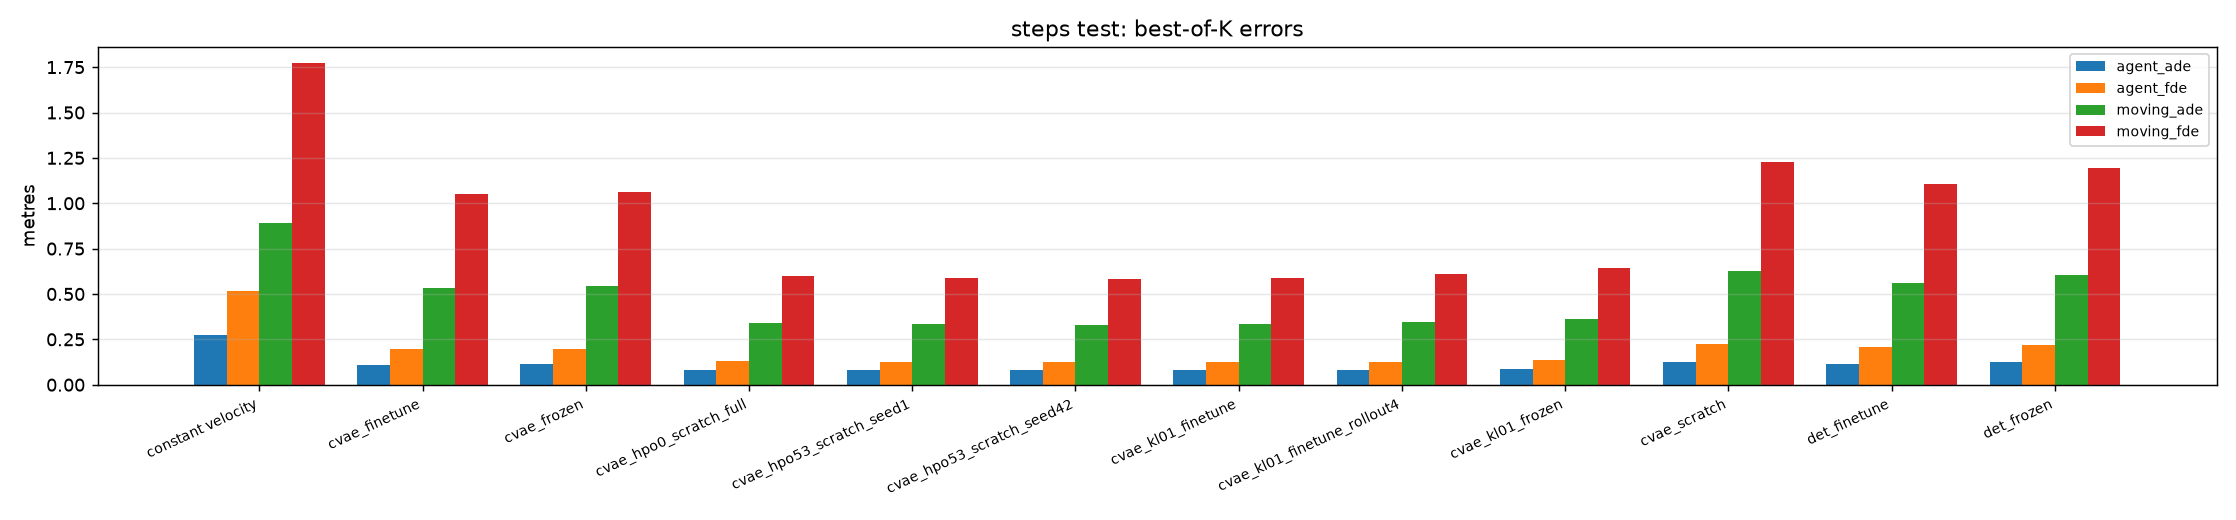
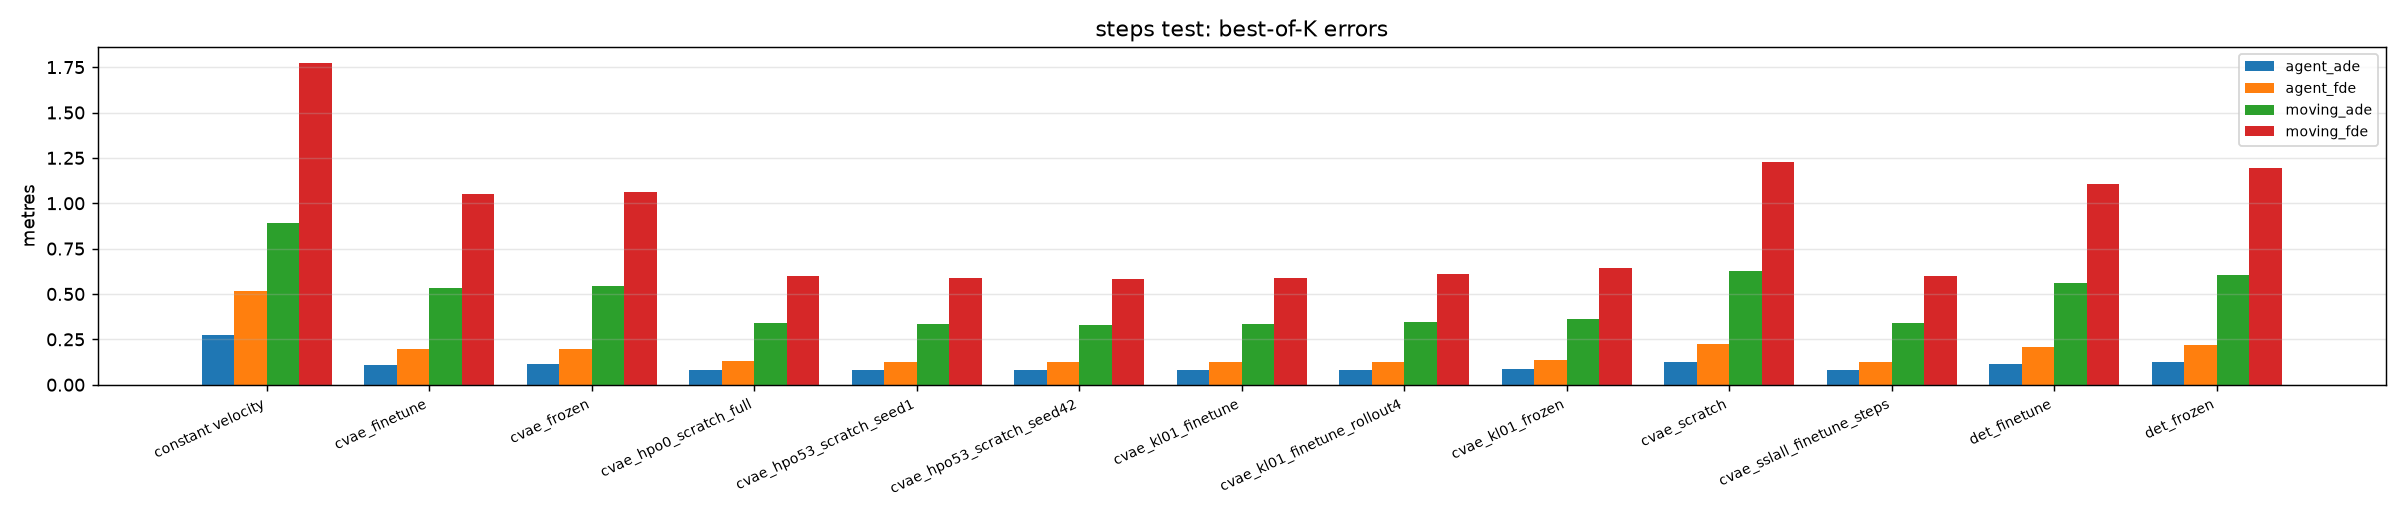
STARS crowd: AR(1) intents, goal clearance, robot-influence metric; crowd-tuned policy now best (decisions 55-56)

diff --git a/src/seanjax/pedestrians/stars_crowd.py b/src/seanjax/pedestrians/stars_crowd.py
@@ -6,9 +6,11 @@ its motion comes from the forecaster:
 
 * every ``replan_every`` simulation steps (0.4 s by default, the model's rate) all model-driven
   pedestrians of every environment are forecast jointly from their histories;
-* the CVAE intent is held per pedestrian: a standard-normal draw ``eps`` made at reset (seeded, so
-  the robot-absent counterfactual uses the same draws) gives ``z = mu + sigma * eps`` under the
-  current prior at every replanning step;
+* the CVAE intent is temporally correlated per pedestrian: standard-normal ``eps`` drawn at reset and
+  updated as an AR(1) process at every re-forecast (``intent_correlation``, default 0.8 per 0.4 s,
+  ~2 s correlation time) gives ``z = mu + sigma * eps`` under the current prior. Draws are seeded and
+  made on a fixed schedule, so the robot-absent counterfactual uses the same ones. (A fully held
+  draw, read in each pedestrian's re-centred local frame, made pedestrians spiral.)
 * between replanning steps pedestrians move along the forecast's first step (its displacement
   spread evenly over the simulation steps, applied incrementally so hand-overs are smooth);
 * the robot joins the graph as one more person, so pedestrians react to it as they react to each
@@ -34,7 +36,7 @@ class StarsCrowdModel(PedestrianModel):
     name = "stars_crowd"
 
     def __init__(self, checkpoint, *, device: str = "cpu", replan_every: int = 4, include_robot: bool = True,
-                 seed: int = 0, amp: bool = True) -> None:
+                 seed: int = 0, amp: bool = True, intent_correlation: float = 0.8) -> None:
         self.device = torch.device(device)
         self.model, payload = load_forecaster(checkpoint, self.device)
         self.model.eval()
@@ -42,6 +44,7 @@ class StarsCrowdModel(PedestrianModel):
         self.history = int(payload["window"]["observation_steps"])
         self.dt_model = float(payload["window"]["dt"])
         self.replan_every, self.include_robot, self.seed, self.amp = int(replan_every), include_robot, seed, amp
+        self.intent_correlation = float(intent_correlation)
 
     def reset(self, batch):
         state = super().reset(batch)
@@ -52,12 +55,13 @@ class StarsCrowdModel(PedestrianModel):
         self.stride = stride
         self.buffer = [(state.pos.clone(), state.active.clone())]
         self.robot_buffer = []
-        generator = torch.Generator(device="cpu").manual_seed(self.seed)
+        self.generator = torch.Generator(device="cpu").manual_seed(self.seed)
         latent = max(1, self.model.latent_dim)
-        self.eps = torch.randn((B, P + 1, latent), generator=generator).to(batch.ped_ref.device)
+        self.eps = torch.randn((B, P + 1, latent), generator=self.generator).to(batch.ped_ref.device)
         self.plan = None                                     # [B, P, steps, 2] positions for the coming steps
         self.plan_start = 0
         self.age = torch.zeros(B, P, dtype=torch.long, device=batch.ped_ref.device)  # steps since spawn
+        self.last_influence = None
         return state
 
     def _history(self, extra_pos=None, extra_active=None):
@@ -73,10 +77,21 @@ class StarsCrowdModel(PedestrianModel):
         return xy, valid
 
     def _forecast(self, batch, robot, robot_present) -> torch.Tensor:
+        """Next-step positions, and (``self.last_influence``) how much the robot changed each forecast."""
+        nxt, full_with = self._forecast_once(batch, robot, robot_present, self.include_robot)
+        self.last_influence = torch.zeros_like(batch.ped_mask, dtype=nxt.dtype)
+        if self.include_robot and bool(robot_present.any()):
+            _, full_without = self._forecast_once(batch, robot, robot_present, False)
+            change = torch.linalg.norm(full_with - full_without, dim=-1).mean(-1)   # [B, P] over 4.8 s
+            self.last_influence = torch.where(robot_present[:, None], change, torch.zeros_like(change)).clamp(min=1e-9) \
+                * self._model_driven
+        return nxt
+
+    def _forecast_once(self, batch, robot, robot_present, include_robot: bool):
         """Next-step positions ``[B, P, 2]`` (scene frame) after one model step for model-driven pedestrians."""
         B, P = batch.ped_mask.shape
         extra_pos = extra_valid = None
-        if self.include_robot:
+        if include_robot:
             frames = [self.robot_buffer[max(0, len(self.robot_buffer) - 1 - self.stride * (self.history - 1 - i))]
                       for i in range(self.history)] if self.robot_buffer else [robot.pos] * self.history
             extra_pos = torch.stack(frames, dim=1)
@@ -88,8 +103,9 @@ class StarsCrowdModel(PedestrianModel):
         gather = lambda value: torch.gather(value, 1, order.view(B, N, *([1] * (value.dim() - 2))).expand_as(value))
         packed_mask = torch.gather(node_mask, 1, order)
         out = xy[:, :, -1].clone()
+        full = out[:, :, None].expand(B, N, self.model.prediction_steps, 2).clone()
         if not bool(packed_mask.any()):
-            return out[:, :P]
+            return out[:, :P], full[:, :P]
         graph = graph_batch_from_padded(gather(xy.to(self.device)), gather(valid.to(self.device)), packed_mask.to(self.device),
                                         dt=self.dt_model, knn=self.knn, radius=self.radius,
                                         prediction_steps=self.model.prediction_steps)
@@ -104,13 +120,15 @@ class StarsCrowdModel(PedestrianModel):
                 eps = eps[graph.node_mask]
                 z = (mu + torch.exp(0.5 * logvar) * eps.to(mu.dtype))[None]
             local = self.model.decode(graph, encoded, z)[0].float()
-        first = to_scene(local[:, :1], graph.origin, graph.heading)[:, 0]          # [Nt, 2]
-        packed = graph.to_padded(first)                                             # [B, N, 2]
-        nxt = torch.zeros_like(packed)
-        nxt.scatter_(1, order.to(self.device)[..., None].expand_as(packed), packed)
+        scene = to_scene(local, graph.origin, graph.heading)                       # [Nt, 12, 2]
+        packed = graph.to_padded(scene)                                             # [B, N, 12, 2]
+        unpacked = torch.zeros_like(packed)
+        unpacked.scatter_(1, order.to(self.device)[..., None, None].expand_as(packed), packed)
         have = node_mask.to(self.device)
-        out = torch.where(have[..., None], nxt, out.to(self.device))
-        return out[:, :P].to(batch.ped_ref.device)
+        full = torch.where(have[..., None, None], unpacked, full.to(self.device))
+        out = torch.where(have[..., None], unpacked[:, :, 0], out.to(self.device))
+        device = batch.ped_ref.device
+        return out[:, :P].to(device), full[:, :P].to(device)
 
     def step(self, state, batch, k, robot, robot_radius, robot_present) -> PedestrianState:
         K = batch.steps
@@ -120,7 +138,15 @@ class StarsCrowdModel(PedestrianModel):
         active = (state.active & ~leave) | spawn
         self.age = torch.where(spawn, torch.zeros_like(self.age), self.age + state.active.long())
         warm = self.age < self.history * self.stride                               # still on its reference
+        self._model_driven = (state.active & ~warm).to(state.pos.dtype)
+        self.last_influence = None
         if (k - 1) % self.replan_every == 0 or self.plan is None:
+            if self.plan is not None and self.intent_correlation < 1.0:
+                # Intents drift (AR(1), correlation time ~ replan / (1 - rho)): a fixed draw is read
+                # in each pedestrian's re-centred local frame every re-forecast and makes them spiral.
+                rho = self.intent_correlation
+                fresh = torch.randn(self.eps.shape, generator=self.generator).to(self.eps.device)
+                self.eps = rho * self.eps + (1.0 - rho * rho) ** 0.5 * fresh
             target = self._forecast(batch, robot, robot_present)
             # Per-step displacement toward the forecast's next model-rate position: applied to the
             # current position each step, so a pedestrian handed over mid-plan does not jump.

diff --git a/src/seanjax/core/rollout.py b/src/seanjax/core/rollout.py
@@ -25,6 +25,7 @@ class Rollout:
     end_step: torch.Tensor        # [B]
     robot_present: bool
     dt: float
+    ped_influence: torch.Tensor | None = None  # [B, P, K] robot-attributable forecast change (learned crowds)
 
     @property
     def steps(self) -> int:
@@ -43,6 +44,8 @@ def rollout(env, batch: ScenarioBatch, policy=None, params: torch.Tensor | None 
         policy.reset(batch.size)
     poses, vs, ws, commands, emergencies = [state.robot.pose], [state.robot.v], [state.robot.w], [state.command], []
     peds, active = [state.peds.pos], [state.peds.active]
+    influence = [torch.zeros_like(state.peds.active, dtype=state.peds.pos.dtype)]
+    tracks_influence = hasattr(env.pedestrians, "last_influence")
     emergencies.append(torch.zeros(batch.size, dtype=torch.bool, device=state.robot.pose.device))
     with torch.no_grad():
         for _ in range(batch.steps - 1):
@@ -55,6 +58,10 @@ def rollout(env, batch: ScenarioBatch, policy=None, params: torch.Tensor | None 
             poses.append(state.robot.pose), vs.append(state.robot.v), ws.append(state.robot.w)
             commands.append(state.command), peds.append(state.peds.pos), active.append(state.peds.active)
             emergencies.append(emergency if emergency is not None else torch.zeros_like(emergencies[0]))
+            if tracks_influence:
+                value = env.pedestrians.last_influence
+                influence.append(value.clone() if value is not None else torch.zeros_like(influence[0]))
     return Rollout(torch.stack(poses, 1), torch.stack(vs, 1), torch.stack(ws, 1), torch.stack(commands, 1),
                    torch.stack(emergencies, 1), torch.stack(peds, 2), torch.stack(active, 2), state.success,
-                   state.ped_collision, state.obstacle_collision, state.end_step, robot_present, batch.dt)
+                   state.ped_collision, state.obstacle_collision, state.end_step, robot_present, batch.dt,
+                   torch.stack(influence, 2) if tracks_influence else None)

diff --git a/src/seanjax/core/metrics.py b/src/seanjax/core/metrics.py
@@ -116,8 +116,24 @@ def disruption_metrics(run: Rollout, counterfactual: Rollout, batch: ScenarioBat
     }
 
 
+def influence_metrics(run: Rollout, batch: ScenarioBatch, threshold: float = 0.05) -> dict[str, torch.Tensor]:
+    """Robot-attributable change of learned-crowd forecasts (``stars_crowd``): per re-forecast, the
+    mean distance between the 4.8 s forecasts with and without the robot in the graph. Immune to
+    the closed-loop divergence that makes trajectory counterfactuals meaningless for learned crowds."""
+    value = run.ped_influence                                                    # [B, P, K], 0 between re-forecasts
+    record = value > 0
+    seen = run.ped_active.any(-1) & batch.ped_mask
+    per_ped = value.sum(-1) / record.float().sum(-1).clamp(min=1)                # mean over re-forecasts
+    n = seen.float().sum(-1).clamp(min=1)
+    return {"robot_influence": (per_ped * seen).sum(-1) / n,
+            "robot_influence_max": (value.amax(-1) * seen).amax(-1),
+            "peds_influenced": ((value.amax(-1) > threshold) & seen).float().sum(-1)}
+
+
 def all_metrics(run: Rollout, counterfactual: Rollout | None, batch: ScenarioBatch, robot_radius: float) -> dict:
     out = robot_metrics(run, batch, robot_radius)
+    if run.ped_influence is not None:
+        out.update(influence_metrics(run, batch))
     if counterfactual is not None:
         out.update(disruption_metrics(run, counterfactual, batch))
     return out

diff --git a/src/seanjax/pedestrians/social_force.py b/src/seanjax/pedestrians/social_force.py
@@ -69,7 +69,9 @@ def social_forces(state: PedestrianState, desired: torch.Tensor, batch, robot, r
     magnitude = p.ped_strength * torch.exp((reach - dist) / p.ped_range)
     magnitude = magnitude * _anisotropy(heading[:, :, None], away, p.anisotropy) * pair
     unit = heading / torch.linalg.norm(heading, dim=-1, keepdim=True).clamp(min=1e-9)
-    right = torch.stack([unit[..., 1], -unit[..., 0]], dim=-1)                   # walker's right-hand side
+    # Side-stepping is something walkers do; standing pedestrians would otherwise orbit in place.
+    walking = (torch.linalg.norm(desired, dim=-1, keepdim=True) / 0.5).clamp(max=1.0)
+    right = torch.stack([unit[..., 1], -unit[..., 0]], dim=-1) * walking         # walker's right-hand side
     force = force + (magnitude[..., None] * away).sum(dim=2) + p.sidestep * magnitude.sum(dim=2)[..., None] * right
 
     rel_r = pos - robot.pos[:, None]

diff --git a/src/seanjax/datasets/trajectory_loader.py b/src/seanjax/datasets/trajectory_loader.py
@@ -194,6 +194,10 @@ class RecordingPool:
             start, goal = center - reach * direction, center + reach * direction
             if (np.linalg.norm(ref[:, 0] - start, axis=-1)[valid[:, 0]] < 1.0).any():
                 continue
+            # The goal must be reachable: not next to someone (standing pedestrians in a learned
+            # crowd do not yield, and a goal inside a group cannot be reached safely).
+            if (np.linalg.norm(occupied - goal, axis=-1) < 1.0).any():
+                continue
             # Keep the pedestrians nearest to the robot's straight path.
             seg = goal - start
             cross = lambda d: np.abs(seg[0] * d[:, 1] - seg[1] * d[:, 0]) / np.linalg.norm(seg)

diff --git a/src/seanjax/optimization/evaluator.py b/src/seanjax/optimization/evaluator.py
@@ -58,7 +58,8 @@ def _repeat_rollout(run: Rollout, times: int) -> Rollout:
     rep = lambda t: t.repeat(times, *([1] * (t.dim() - 1)))
     return Rollout(rep(run.robot_pose), rep(run.robot_v), rep(run.robot_w), rep(run.command), rep(run.emergency),
                    rep(run.ped_pos), rep(run.ped_active), rep(run.success), rep(run.ped_collision),
-                   rep(run.obstacle_collision), rep(run.end_step), run.robot_present, run.dt)
+                   rep(run.obstacle_collision), rep(run.end_step), run.robot_present, run.dt,
+                   rep(run.ped_influence) if run.ped_influence is not None else None)
 
 
 class Evaluator:

diff --git a/docs/decisions.md b/docs/decisions.md
@@ -450,3 +450,122 @@ why, and how to undo it.
     the robot, averaged over pedestrians that came that close. `cmaes_crowd.yaml` now uses it as
     its disruption term and the run restarted. The global metric is still reported. For the
     social-force-type models (damped dynamics) the global metric remains the default.
+
+50. **Objective v2 warm start: natural behaviour, a real trade-off.** Scripted test, best STARS
+    predictor, fixed controller, objective v2:
+
+    | Policy | Objective v2 | Success | Path efficiency | Disruption | Min clearance | Time | Smoothness |
+    | --- | --- | --- | --- | --- | --- | --- | --- |
+    | Default | 0.425 | 100% | 0.98 | 0.206 m | — | 13.6 s | 0.62 |
+    | v1 | 0.354 | 91% | 0.85 | 0.067 m | 0.74 m | 13.5 s | — |
+    | Reward-hacking warm start | 0.173 | — | — | — | — | — | — |
+    | Warm start v2 | 0.449 | 96% | 0.91 | 0.115 m | 0.46 m | 12.4 s | 0.37 |
+
+    The rollout figure (`docs/results/navigation_compare_warm_v2.png`) shows clean narrow-passage
+    and head-on behaviour and no circling around crossing pedestrians. A small loop near a
+    crowded goal in dense flow remains.
+
+    v2 is more efficient and smoother than v1 but less cautious; which is preferable depends on
+    the objective weights, which remain a research choice. Recommended:
+    `checkpoints/seanjax/cmaes_stars_best_warm_v2/best_policy.yaml` for objective v2, v1 for
+    minimum disruption.
+
+    Side fix: the social-force sidestep now applies only to walking pedestrians. Standing-group
+    members orbited in place before; now they settle within ~5 s (0 m/s after 15 s). Results
+    above used the old pedestrian model; the difference is confined to standing pedestrians.
+
+51. **Measuring disruption in the STARS crowd, and a limitation it revealed.**
+    - The local metric (49) still read ~0.85 m: pedestrians that reach the robot have already
+      diverged chaotically.
+    - New `robot_influence`: at each re-forecast the crowd model also forecasts without the robot
+      in the graph, from the same histories. The metric is the mean distance between the two 4.8 s
+      forecasts. It is attributable to the robot and immune to divergence. Also
+      `robot_influence_max` and `peds_influenced` (> 5 cm).
+
+    Finding: the STEPS-trained forecaster barely reacts to the robot node. Mean influence is 7 mm
+    within 2 m of the robot and 1-2 mm beyond. STEPS contains no robot, and most of its
+    interactions are weak (90% of pedestrians stand). In this crowd, avoidance is therefore almost
+    entirely the robot's responsibility, plus the no-interpenetration rule. To make learned crowds
+    reactive, the forecaster would need interaction-rich data or robot-in-the-loop data; this is
+    a limitation to report, not a bug.
+
+    For tuning: `cmaes_crowd.yaml` uses `robot_influence` with weight 10 (it is ~100x smaller than
+    trajectory displacements) and now warm-starts from the objective-v2 policy. Restarted
+    (previous run cancelled at generation 54).
+
+52. **Correction to 51: the influence weight.** I set `disruption: 10` from three recorded scenes,
+    where influence was ~0.005 m. Over the full training mix (scripted encounters included)
+    `robot_influence` averages 0.24 m at the start, the same magnitude as trajectory disruption
+    with the other crowd models. Weight 10 made the influence term dominate the objective
+    (~-1.8), so the run was cancelled at generation 42 and restarted with weight 1.0.
+
+    The "barely reacts" finding in 51 holds for recorded STEPS scenes. In scripted head-on and
+    crossing encounters the forecaster does change its forecasts by tens of centimetres when the
+    robot is present.
+
+53. **Pretraining on all six datasets does not transfer better to STEPS.** A low-KL CVAE
+    fine-tuned on STEPS, STEPS test:
+    - from the all-datasets phase-1 encoder: agent ADE 0.081, moving 0.339, joint 0.096;
+    - from the STEPS-only encoder: 0.080 / 0.336 / 0.097.
+
+    Within seed noise. On STEPS, extra pedestrian datasets in self-supervised pretraining add
+    nothing measurable. A single forecaster trained on all six datasets matches the STEPS-only
+    models on STEPS validation (0.068-0.070) while also covering MADRAS, Grand Central, UCY and
+    PTDPES. Per-dataset test results are pending (job 65718).
+
+54. **Navigation in the STARS-driven crowd (test, scripted + recorded scenes; objective v2 with
+    robot_influence).**
+
+    | Policy | Objective | Success | Collisions | Path efficiency |
+    | --- | --- | --- | --- | --- |
+    | Goal-seeking | -2.326 | 34% | 66% | — |
+    | Default social | -0.239 | 82% | 7.8% | — |
+    | v1 | -0.150 | 83% | 3.3% | — |
+    | Objective-v2 policy | 0.044 | 91% | 3.3% | 0.86 |
+    | Crowd-tuned | 0.043 | 91% | 3.3% | 0.85 |
+
+    - Tuning inside the learned crowd gives nothing over the v2 policy, which transfers as is.
+    - On recorded STEPS scenes only, success is 30-50% for every social policy, against 100% with
+      reactive-replay pedestrians. Collisions are ~0, so the failures are timeouts. The learned
+      crowd barely yields to the robot (51), so in dense recorded crowds the robot rarely finds
+      a gap within 30 s: a freezing-robot outcome.
+
+    This is the main limitation of using the STEPS forecaster as a reactive crowd simulator.
+    Options, not yet done:
+    - longer time limits for recorded scenes;
+    - an interaction-aware forecaster trained on data with robots;
+    - a hybrid crowd (reactive replay near the robot, STARS elsewhere).
+
+    The global `disruption_displacement` column (1.1-1.3 m) is meaningless in this crowd (49).
+
+55. **Two fixes from the STARS-crowd figure (`docs/results/navigation_compare_crowd.png`).**
+    - **Spiralling pedestrians.** A fixed intent draw is read in each pedestrian's re-centred
+      local frame at every 0.4 s re-forecast, so a slight turn repeats into a circle. Intents now
+      follow an AR(1) process (`intent_correlation: 0.8` per re-forecast, ~2 s correlation),
+      still seeded and on a fixed schedule so the counterfactual matches. In `group_toward` with
+      the robot present, mean net turning per pedestrian fell from 1.41 to 0.67 rad (max 2.7 ->
+      1.1 rad).
+    - **Unreachable recorded goals.** Several recorded-scene goals sat next to standing
+      pedestrians, who do not yield in the learned crowd. Recorded scenarios now reject goals
+      within 1 m of any pedestrian position in the window. This changes which recorded scenes are
+      drawn, so recorded-scene numbers before this entry are not directly comparable.
+
+56. **After the fixes in 55, tuning inside the STARS crowd pays off.** Re-evaluated on 90 test
+    scenarios (80 scripted + 10 recorded STEPS scenes) with `stars_crowd` pedestrians
+    (`runs/seanjax/crowd_v2`), the crowd-tuned policy re-tuned on the corrected crowd is now best:
+
+    | Policy | Objective | Success | Collision | Path eff. | Recorded success / objective |
+    | --- | --- | --- | --- | --- | --- |
+    | Goal-seeking | -2.260 | 37% | 63% | 0.37 | 10% / -3.23 |
+    | Default social | -0.187 | 84% | 7.8% | 0.83 | 70% / -0.38 |
+    | v1 | 0.028 | 90% | 1.1% | 0.84 | 70% / -0.26 |
+    | Objective-v2 policy | 0.144 | 96% | 3.3% | 0.91 | 90% / 0.20 |
+    | **Crowd-tuned** (`cmaes_crowd`) | **0.233** | **99%** | **1.1%** | 0.91 | **100% / 0.37** |
+
+    - The freezing-robot failure on recorded scenes from 54 is gone: it came largely from the
+      spiralling pedestrians and goals beside standing people, not from the policy.
+    - The gain over the v2 policy is mostly fewer collisions (3.3% -> 1.1%) at the cost of 0.5 s
+      longer trips. `robot_influence` is about the same for all social policies (0.28-0.30 m).
+    - Figure: `docs/results/navigation_compare_crowd_v2.png`. In `dense_flow` all policies still
+      make a small loop near the goal while waiting for the cross flow; left as is, since it is
+      collision-free and the objective already charges for the detour.

diff --git a/docs/results/README.md b/docs/results/README.md
@@ -58,7 +58,18 @@ collisions and beats the default under ORCA, social force and replay pedestrians
   reward hacking. Objective v2 adds detour (path efficiency) and smoothness terms; reruns are in
   progress.
 
+**Objective v2** adds detour (1 − path efficiency) and command smoothness terms [50]. Scripted
+test, best STARS predictor:
+
+| Policy | Objective v2 | Success | Path efficiency | Disruption (m) | Time (s) |
+| --- | --- | --- | --- | --- | --- |
+| Default social | 0.425 | 100% | 0.98 | 0.206 | 13.6 |
+| v1 (cautious) | 0.354 | 91% | 0.85 | 0.067 | 13.5 |
+| **Warm start v2** (`cmaes_stars_best_warm_v2`) | **0.449** | 96% | 0.91 | 0.115 | 12.4 |
+
 **Figures:**
+- [`navigation_compare_warm_v2.png`](navigation_compare_warm_v2.png): default vs v1 vs warm start
+  v2, six scenarios.
 - [`navigation_compare_stars.png`](navigation_compare_stars.png): goal-seeking vs default vs tuned,
   five scenarios.
 - [`navigation_compare_warm.png`](navigation_compare_warm.png): the reward-hacking policy.
@@ -67,5 +78,16 @@ collisions and beats the default under ORCA, social force and replay pedestrians
 ## Forecaster as the crowd
 
 `stars_crowd` moves the simulated pedestrians with the forecaster itself, with the robot as one
-more person in the graph [46]. Tuning the navigation policy inside that crowd (`cmaes_crowd.yaml`)
-is the current experiment.
+more person in the graph [46]. Intents follow an AR(1) process and recorded goals keep 1 m from
+pedestrians [55]. 90 test scenarios (80 scripted, 10 recorded STEPS scenes), objective v2 [56]:
+
+| Policy | Objective | Success | Collision | Recorded success |
+| --- | --- | --- | --- | --- |
+| Goal-seeking | -2.260 | 37% | 63% | 10% |
+| Default social | -0.187 | 84% | 7.8% | 70% |
+| v1 | 0.028 | 90% | 1.1% | 70% |
+| Objective-v2 policy | 0.144 | 96% | 3.3% | 90% |
+| **Tuned in the crowd** (`cmaes_crowd`) | **0.233** | **99%** | **1.1%** | **100%** |
+
+Figure: [`navigation_compare_crowd_v2.png`](navigation_compare_crowd_v2.png), default vs v2 vs
+crowd-tuned on recorded, crossing, group and dense-flow scenes.

diff --git a/docs/results/stars_ma_steps_test.md b/docs/results/stars_ma_steps_test.md
@@ -14,6 +14,7 @@
 | cvae_kl01_finetune_rollout4 | 0.080 | 0.127 | 0.345 | 0.609 | 0.038 | 0.082 | 0.131 | 0.103 | 0.001 |
 | cvae_kl01_frozen | 0.084 | 0.134 | 0.362 | 0.643 | 0.040 | 0.086 | 0.139 | 0.103 | 0.001 |
 | cvae_scratch | 0.126 | 0.223 | 0.625 | 1.228 | 0.046 | 0.133 | 0.240 | 0.132 | 0.001 |
+| cvae_sslall_finetune_steps | 0.081 | 0.128 | 0.339 | 0.600 | 0.040 | 0.082 | 0.132 | 0.096 | 0.001 |
 | det_finetune | 0.115 | 0.205 | 0.559 | 1.107 | 0.045 | 0.121 | 0.221 | 0.119 | 0.001 |
 | det_frozen | 0.123 | 0.219 | 0.604 | 1.192 | 0.046 | 0.128 | 0.234 | 0.127 | 0.001 |
 
@@ -30,6 +31,7 @@
 | cvae_kl01_finetune_rollout4 | 0.085 | 0.081 | 0.080 |
 | cvae_kl01_frozen | 0.088 | 0.085 | 0.084 |
 | cvae_scratch | 0.132 | 0.123 | 0.126 |
+| cvae_sslall_finetune_steps | 0.084 | 0.081 | 0.081 |
 | det_finetune | 0.126 | 0.117 | 0.115 |
 | det_frozen | 0.127 | 0.123 | 0.123 |
 
@@ -46,5 +48,6 @@
 | cvae_kl01_finetune_rollout4 | 0.000 | 0.002 | 0.062 | 0.293 | 0.098 | 0.141 |
 | cvae_kl01_frozen | 0.000 | 0.002 | 0.062 | 0.284 | 0.104 | 0.141 |
 | cvae_scratch | 0.000 | 0.001 | 0.087 | 0.301 | 0.058 | 0.141 |
+| cvae_sslall_finetune_steps | 0.000 | 0.002 | 0.066 | 0.287 | 0.100 | 0.141 |
 | det_finetune | 0.000 | 0.001 | 0.068 | 0.302 | 0.077 | 0.141 |
 | det_frozen | 0.000 | 0.001 | 0.089 | 0.301 | 0.057 | 0.141 |
